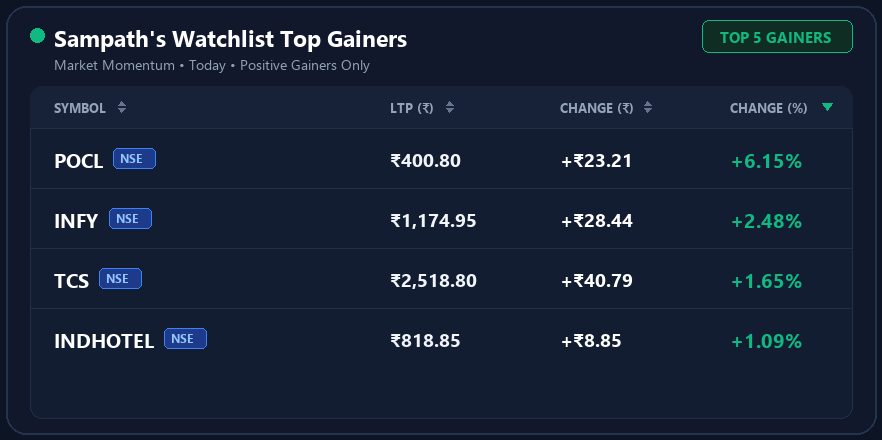
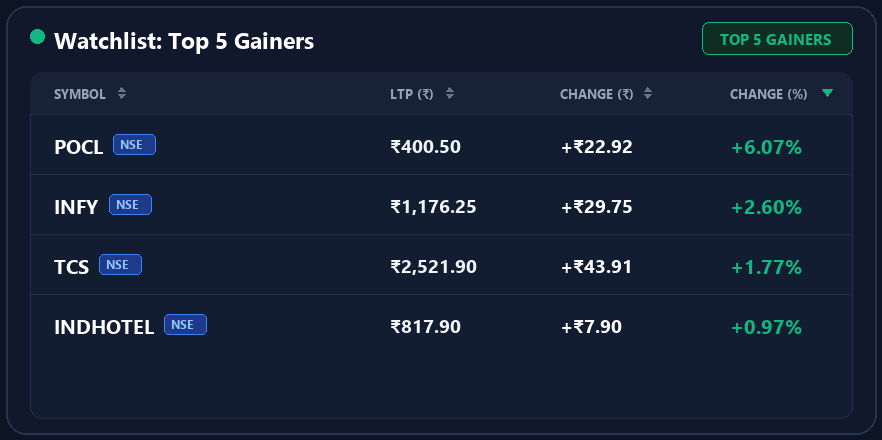
fix(notifications): update watchlist card title to 'Watchlist: Top 5 Gainers' and remove subtitle

diff --git a/modules/notifications/card_generator.py b/modules/notifications/card_generator.py
@@ -399,9 +399,9 @@ def generate_watchlist_card(
     row_line = (33, 47, 72, 255)
 
     # Header Row
-    sec_y = 22
-    draw.ellipse([30, sec_y + 6, 44, sec_y + 20], fill=color_green)
-    display_name = f"{username.capitalize()}'s Watchlist Top Gainers" if username else "Watchlist Top Gainers"
+    sec_y = 24
+    draw.ellipse([30, sec_y + 5, 44, sec_y + 19], fill=color_green)
+    display_name = "Watchlist: Top 5 Gainers"
     draw.text((54, sec_y), display_name, font=font_title, fill=color_white)
 
     # Right Badge: TOP 5 GAINERS
@@ -412,12 +412,9 @@ def generate_watchlist_card(
     draw.rounded_rectangle([badge_x, sec_y - 2, badge_x + badge_w, sec_y + badge_h], radius=7, fill=(16, 45, 35, 255), outline=color_green, width=1)
     draw.text((badge_x + 18, sec_y + 4), badge_text, font=font_badge, fill=color_green)
 
-    # Sub-header info
-    draw.text((54, sec_y + 32), f"Market Momentum • {date_str} • Positive Gainers Only", font=font_sub, fill=color_muted)
-
-    # Inner Glassy Table Frame
+    # Inner Glassy Table Frame (Subtitle removed as requested)
     tbl_x = 30
-    tbl_y = sec_y + 64
+    tbl_y = sec_y + 48
     tbl_w = width - 60
     tbl_h = height - tbl_y - 22
 
